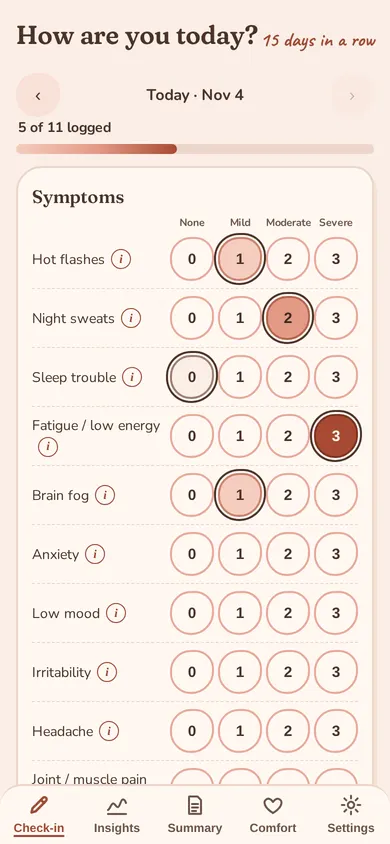
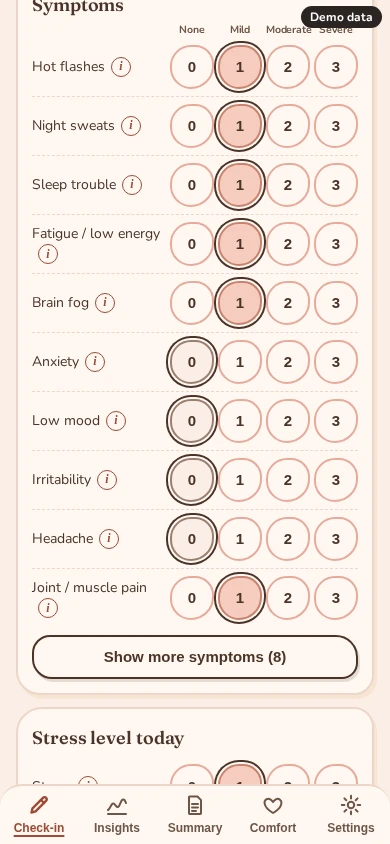
Tidy mobile eyebrow and refresh script-free demo imagery
Keep the landing eyebrow single-line at 360–430px with compact line height. Reshoot five demo screenshots from this branch’s current app, preserve image sizes and demo labels; refresh social preview typography. Advance cache to peri-v30. No paywall changes.

diff --git a/sw.js b/sw.js
@@ -1,9 +1,9 @@
-// Root service worker, retired in peri-v29 (Nov 2026). The app moved to /app/ (its own SW, scope /app/).
+// Root service worker, retired in peri-v30 (Nov 2026). The app moved to /app/ (its own SW, scope /app/).
 // Older installs registered this file with scope "/" and would keep serving the old app over the landing page.
 // This version: takes over at once, deletes old root app caches, unregisters itself, and reloads open windows
 // so they get the network copy (landing page, which sends home-screen launches on to /app/).
 // It never touches localStorage, so her entries (key periTracker.v1, same origin) are untouched.
-const KEEP=['peri-v29'];// the /app/ SW's cache; nights-*/strong-* are not peri-* so untouched
+const KEEP=['peri-v30'];// the /app/ SW's cache; nights-*/strong-* are not peri-* so untouched
 self.addEventListener('install',()=>self.skipWaiting());
 self.addEventListener('activate',e=>{e.waitUntil((async()=>{
  const k=await caches.keys();await Promise.all(k.filter(x=>x.startsWith('peri-')&&!KEEP.includes(x)).map(x=>caches.delete(x)));

diff --git a/index.html b/index.html
@@ -33,7 +33,7 @@ header.top{gap:10px;display:flex;align-items:center;justify-content:space-betwee
 .btn.sm{min-height:44px;padding:0 18px;font-size:16px}
 .note{font-size:16px;color:var(--mute);margin-top:10px}
 section{padding:56px 0}section.alt{background:var(--card);border-block:1px solid var(--line)}
-.accent{font-family:Nunito,Arial,sans-serif;font-style:italic;color:var(--terra);font-size:26px;margin:0 0 4px;display:block}
+.accent{font-family:Nunito,Arial,sans-serif;font-style:italic;color:var(--terra);font-size:clamp(13px,4.2vw,18px);line-height:1.25;margin:0 0 8px;display:block}
 .hero{display:grid;gap:36px;align-items:center;padding:24px 0 48px}
 @media(min-width:860px){.hero{grid-template-columns:1.1fr .9fr}.cols{display:grid;grid-template-columns:1fr 1fr;gap:48px;align-items:center}.three{display:grid;grid-template-columns:repeat(3,1fr);gap:24px}}
 .phone{margin:0 auto;max-width:300px;position:relative}

diff --git a/app/sw.js b/app/sw.js
@@ -1,4 +1,4 @@
-const C='peri-v29',A=['./','index.html','manifest.webmanifest','icon-192.png','icon-512.png','icon-512-maskable.png','icon-180.png','../privacy.html','../health-data.html','../terms.html','../accessibility.html','fonts/fraunces-latin.woff2','fonts/nunito-latin.woff2'];
+const C='peri-v30',A=['./','index.html','manifest.webmanifest','icon-192.png','icon-512.png','icon-512-maskable.png','icon-180.png','../privacy.html','../health-data.html','../terms.html','../accessibility.html','fonts/fraunces-latin.woff2','fonts/nunito-latin.woff2'];
 self.addEventListener('install',e=>{e.waitUntil(caches.open(C).then(c=>c.addAll(A)))});
 self.addEventListener('message',e=>{if(e.data&&e.data.type==='SKIP_WAITING')self.skipWaiting()});
 self.addEventListener('activate',e=>{e.waitUntil(caches.keys().then(k=>Promise.all(k.filter(x=>x.startsWith('peri-')&&x!==C).map(x=>caches.delete(x)))));self.clients.claim()});

diff --git a/tests/android_header_test.py b/tests/android_header_test.py
@@ -17,6 +17,8 @@ try:
    for sel in ['header .logo','header .btn']:
     assert page.locator(sel).evaluate("e=>getComputedStyle(e).whiteSpace==='nowrap'"),f'{sel} wraps at {width}'
    assert page.evaluate("document.querySelector('header .logo').getBoundingClientRect().right+7<=document.querySelector('header .btn').getBoundingClientRect().left"),f'header collision at {width}'
+   if width>=360:
+    assert page.locator('.accent').first.evaluate("e=>e.getBoundingClientRect().height<=parseFloat(getComputedStyle(e).lineHeight)+1"),f'eyebrow wraps at {width}'
    assert not any('caveat' in u.lower() for u in requests)
    page.close()
   b.close()
